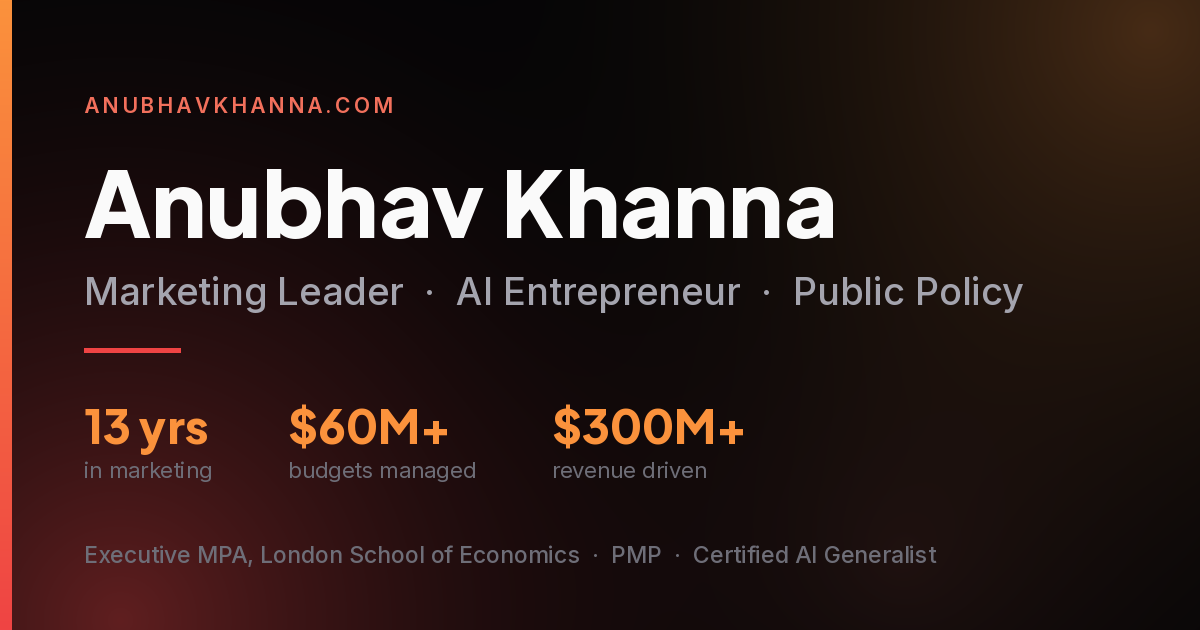
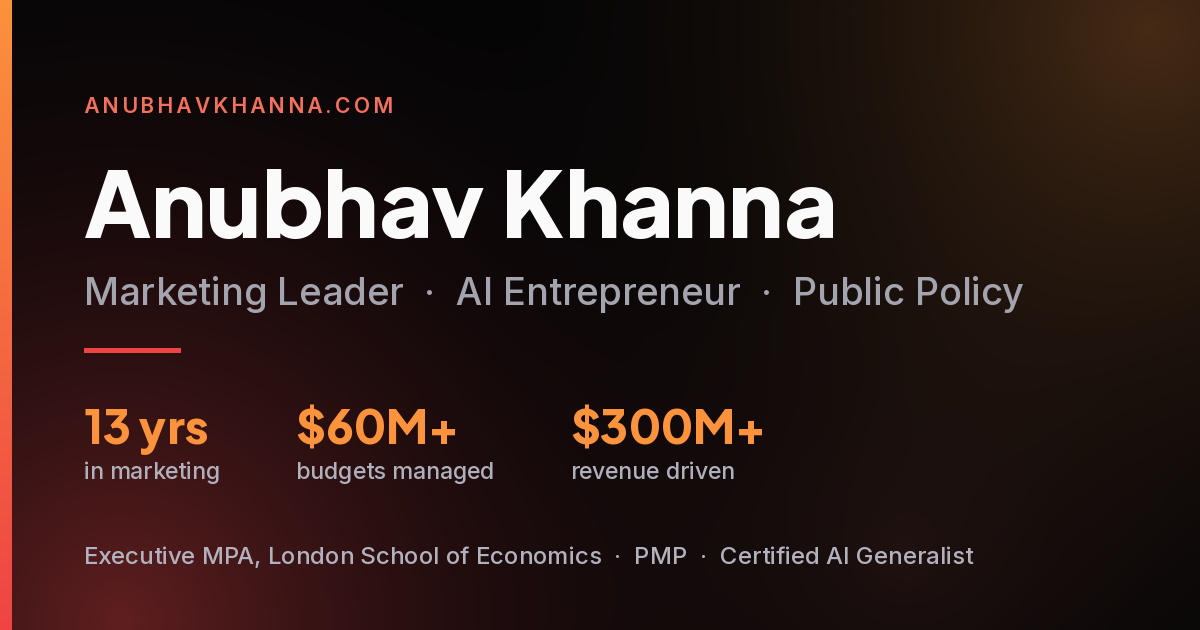
fix og

diff --git a/index.html b/index.html
@@ -11,7 +11,7 @@
 <link rel="canonical" href="https://anubhavkhanna.com/">
 
 <meta property="og:type" content="website">
-<meta property="og:title" content="Anubhav Khanna — Marketing Leader &amp; AI Entrepreneur">
+<meta property="og:title" content="Anubhav Khanna — Marketing Leader, AI Entrepreneur &amp; Public Policy">
 <meta property="og:description" content="13 years in marketing, 4 in manufacturing engineering. $60M+ budgets managed. $300M+ revenues driven.">
 <meta property="og:url" content="https://anubhavkhanna.com/">
 <meta property="og:image" content="https://anubhavkhanna.com/assets/img/og.png">
